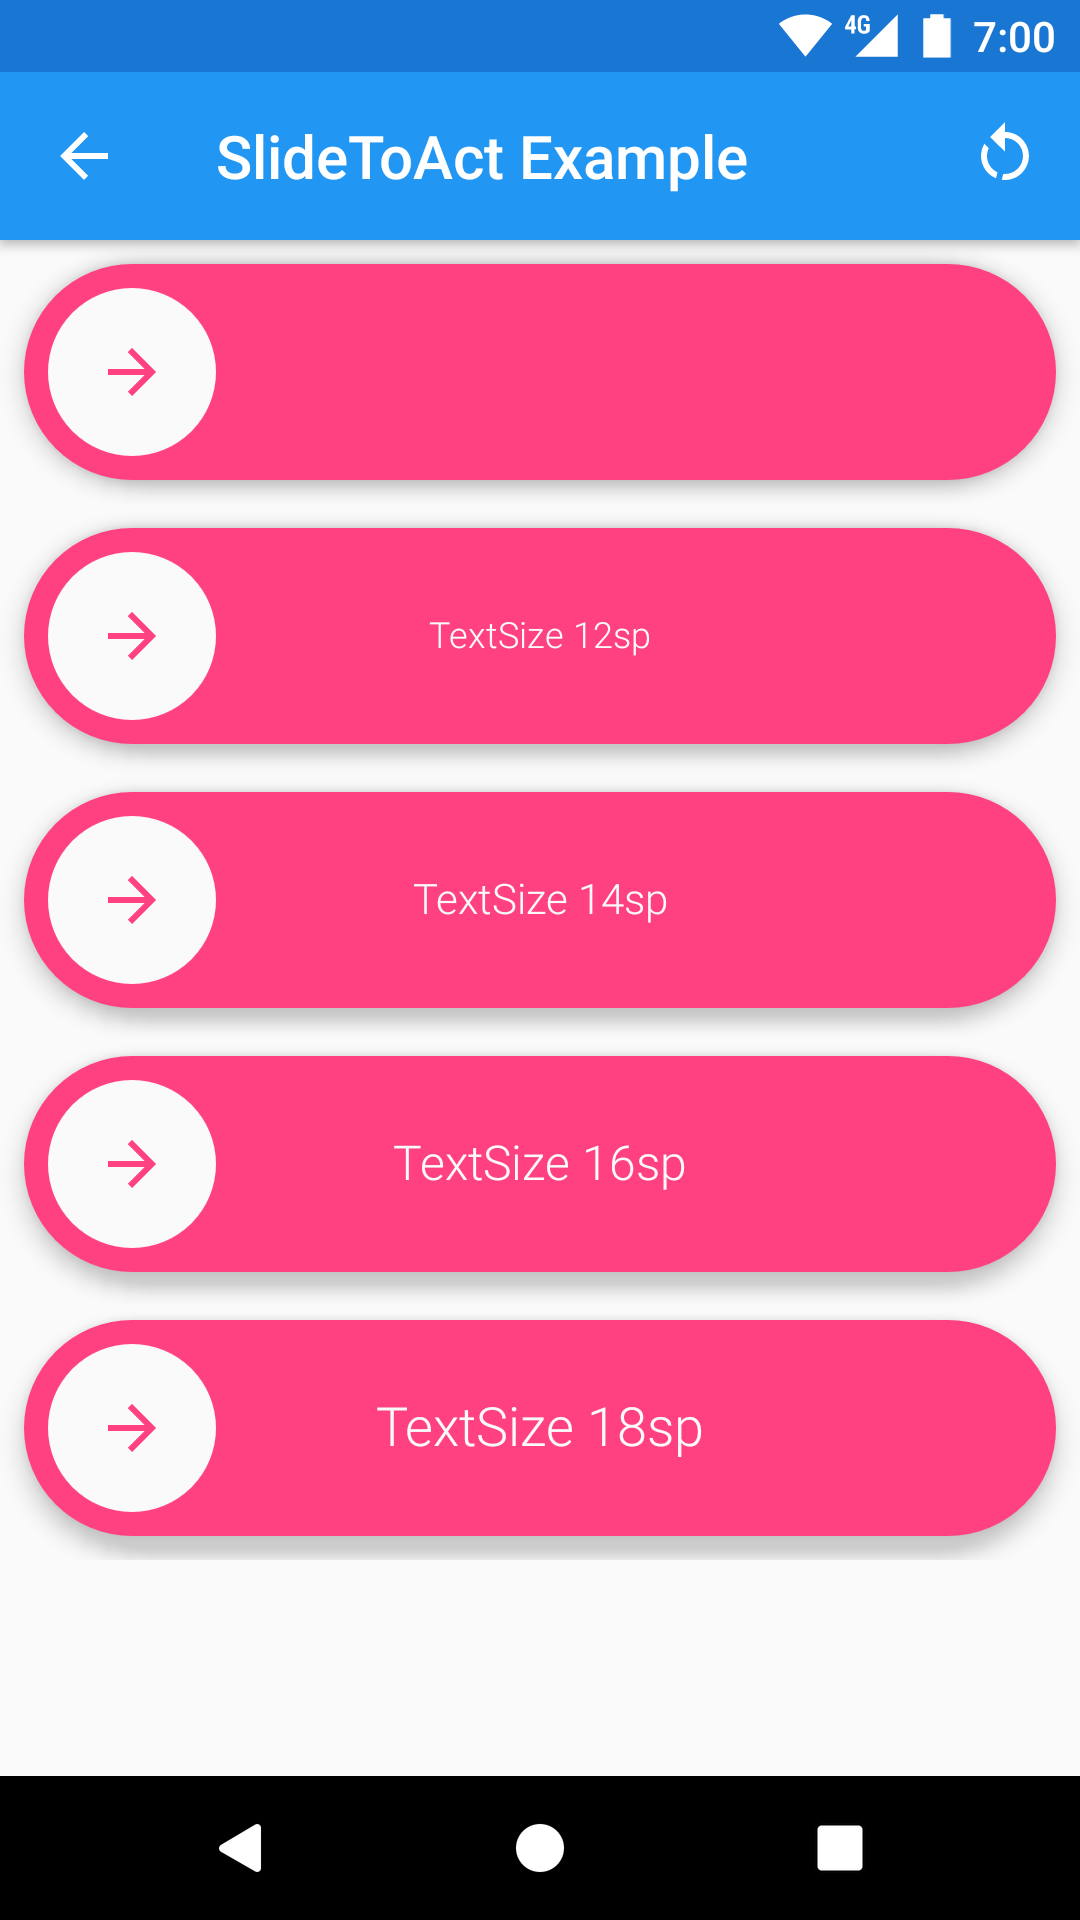
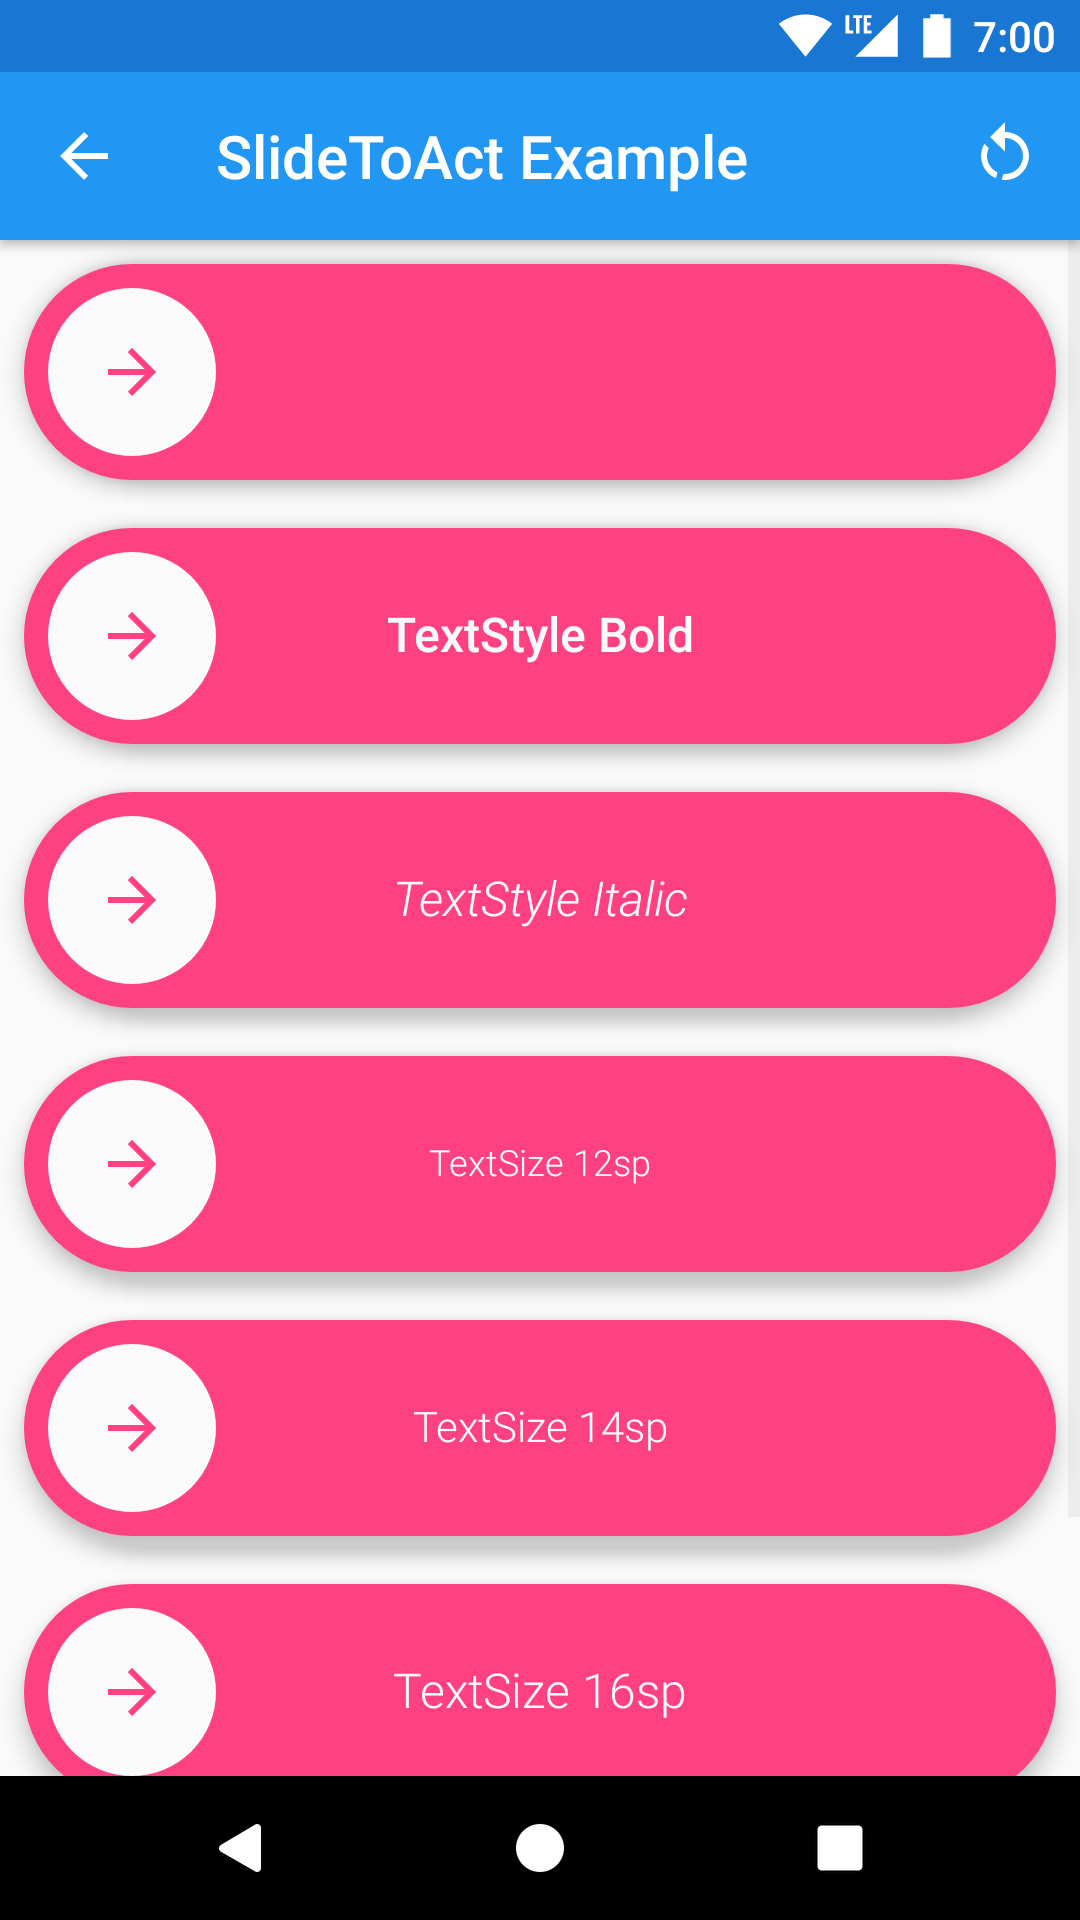
Updated README to the latest feature set

diff --git a/README.md b/README.md
@@ -15,7 +15,7 @@ A simple *Slide to Unlock* **Material** widget for **Android**, written in [**Ko
         * [``area_margin``](#area_margin)
         * [``inner_color`` & ``outer_color``](#inner_color--outer_color)
         * [``border_radius``](#border_radius)
-        * [``text`` & ``text_size``](#text--text_size)
+        * [``text``, ``text_size``, ``text_style``](#text-text_size-text_style)
         * [``slider_height``](#slider_height)
         * [``slider_locked``](#slider_locked)
         * [``slider_icon``](#slider_icon)
@@ -37,18 +37,18 @@ A simple *Slide to Unlock* **Material** widget for **Android**, written in [**Ko
 If you're using the Android Gradle plugin version 3:
 ```groovy
 dependencies {
-   implementation 'com.ncorti:slidetoact:0.2.0'
+   implementation 'com.ncorti:slidetoact:0.3.0'
 }
 ```
 
 If you're using an Older version of the Android Gradle plugin:
 ```groovy
 dependencies {
-   compile 'com.ncorti:slidetoact:0.2.0'
+   compile 'com.ncorti:slidetoact:0.3.0'
 }
 ```
 
-Or you can download the .AAR artifact [directly from Bintray](https://bintray.com/cortinico/maven/download_file?file_path=com%2Fncorti%2Fslidetoact%2F0.1.0%2Fslidetoact-0.1.0.aar).
+Or you can download the .AAR artifact [directly from Bintray](https://bintray.com/cortinico/maven/download_file?file_path=com%2Fncorti%2Fslidetoact%2F0.3.0%2Fslidetoact-0.3.0.aar).
 
 ## Example 🚸
 
@@ -122,11 +122,13 @@ Use the ``border_radius`` attribute to control the **radius** of the **inner cir
 
 <p align="center"><img src="assets/border_radius_1.png" alt="border_radius_1" width="40%"/> <img src="assets/border_radius_2.png" alt="border_radius_2" width="40%"/></p>
 
-#### ``text`` & ``text_size``
+#### ``text``, ``text_size``, ``text_style``
 
 Use the ``text`` attribute to control the **text of your slider**. If not set, this attribute defaults to **SlideToActView**. 
 
 Use the ``text_size`` attribute to control the **size** of the **text of your slider**. A ``text_size`` set to **0sp** will result in hiding the text. If not set, this attribute defaults to **16sp**.
+
+Use the ``text_style`` attribute to control the **style** of your text. Accepted values are ``normal``, ``bold`` and ``italic``.
 
 <p align="center"><img src="assets/text.png" alt="text" width="40%"/></p>
 
@@ -157,7 +159,7 @@ sta.setLocked(true);
 You can set a custom icon by setting the ``slider_icon``attribute to a drawable resource.
 
 <p align="center">
-  <img src="assets/custom_icon.png" alt="locked_slider gif"/>
+  <img src="assets/custom_icon.png" alt="custom_icon" width="40%"/>
 </p>
 
 ```xml
